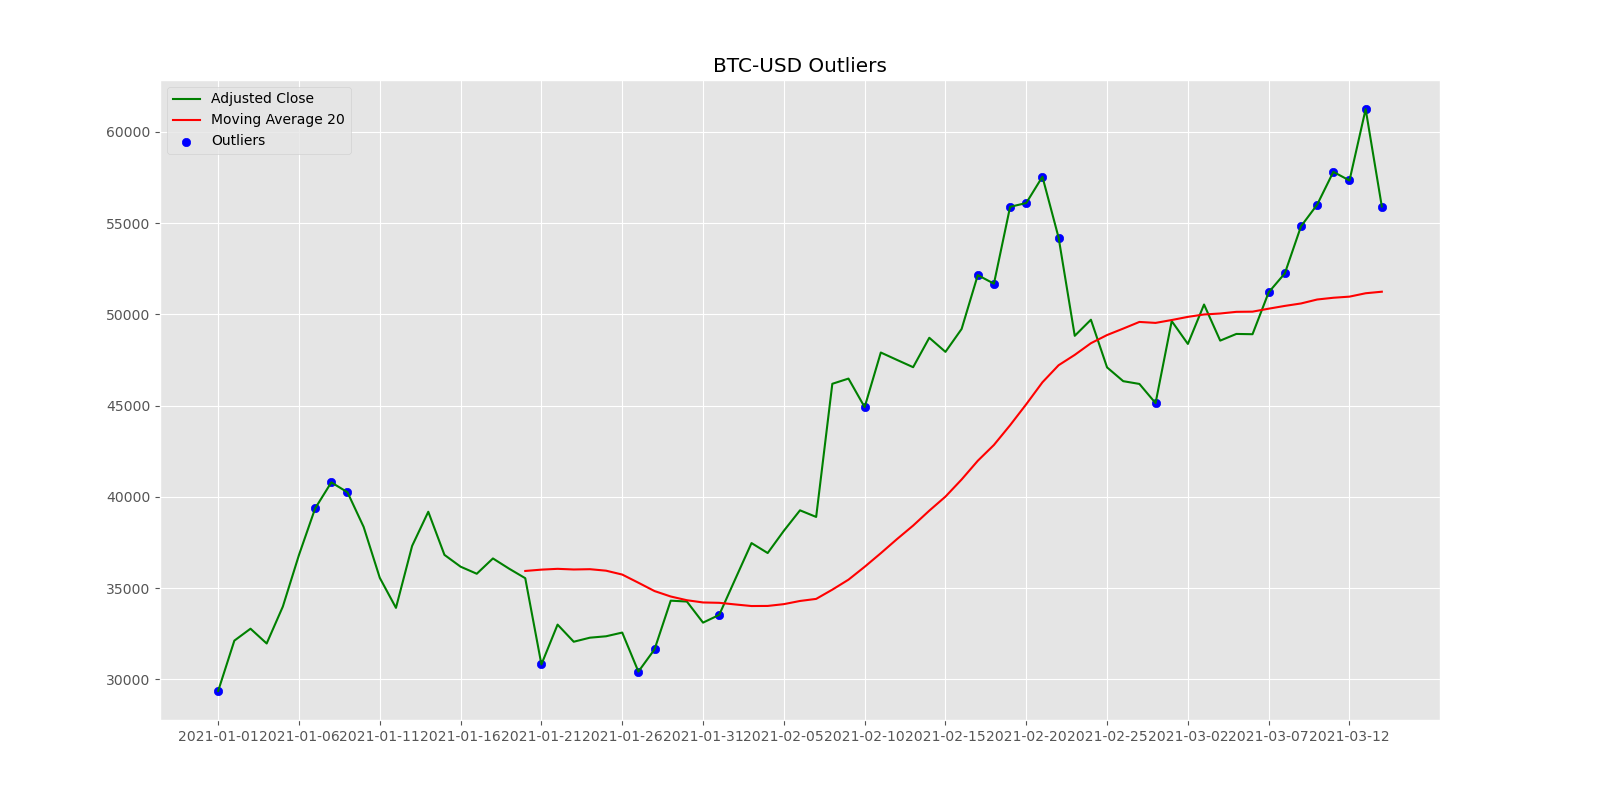
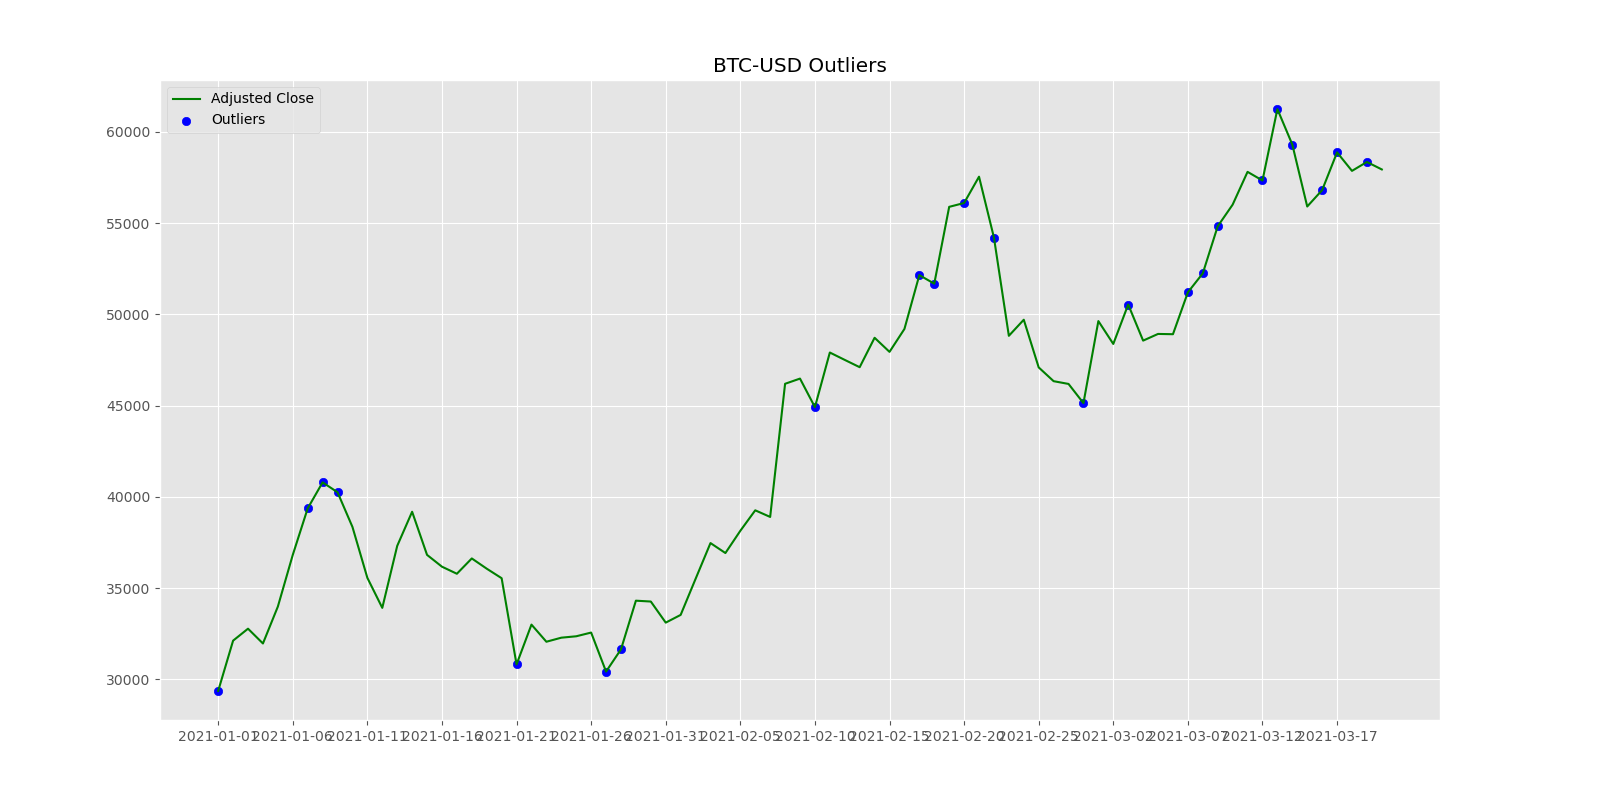
finished

diff --git a/isolation_forests.py b/isolation_forests.py
@@ -2,10 +2,10 @@ import numpy as np
 import pandas as pd
 import matplotlib.pyplot as plt
 
-from sklearn.model_selection import train_test_split 
-from sklearn.pipeline import make_pipeline
-from sklearn.ensemble import IsolationForest
 
+from sklearn.ensemble import IsolationForest
+from sklearn.model_selection import GridSearchCV
+from sklearn.metrics import precision_score, recall_score
 '''
 Isolation Forest:
 after training the model, the output will be either 
@@ -23,7 +23,9 @@ class Forest:
         self.data = data
         self.start = start
     
-    
+
+
+    # labelling outliers
     def model_outliers(self):
         train_data = self.data
         # the number of estimators is how many decision trees we are using

diff --git a/main.py b/main.py
@@ -7,15 +7,15 @@ from isolation_forests import Forest
 
 def main():
 
-    ticker = 'GME' # Gamestop
-    # ticker = 'BTC-USD' # Bitcoin 
+    # ticker = 'GME' # Gamestop
+    ticker = 'BTC-USD' # Bitcoin 
     # ticker = '^GSPC' # S&P 500 index
 
     start = datetime.date(2021, 1, 1) # start looking at the stock
     ext = Extract(ticker=ticker, start=start)
     data = ext.read_data()
     ext.convert_csv(data)
-    
+
     fst = Forest(ticker=ticker, start=start)
     fst.model_outliers()
 

diff --git a/analysis.py b/analysis.py
@@ -73,7 +73,7 @@ class Analysis:
         
         ax.plot(outlier_data['Date'], outlier_data['Adj Close'], label='Adjusted Close', c='g')
         ax.scatter(outliers['Date'], outliers['Adj Close'], label='Outliers', c='b')
-        ax.plot( moving_avg, label='Moving Average {}'.format(days), c='r')
+        # ax.plot( moving_avg, label='Moving Average {}'.format(days), c='r')
         ax.legend()
         ax.set_xticks(outlier_data['Date'][::5])
         
